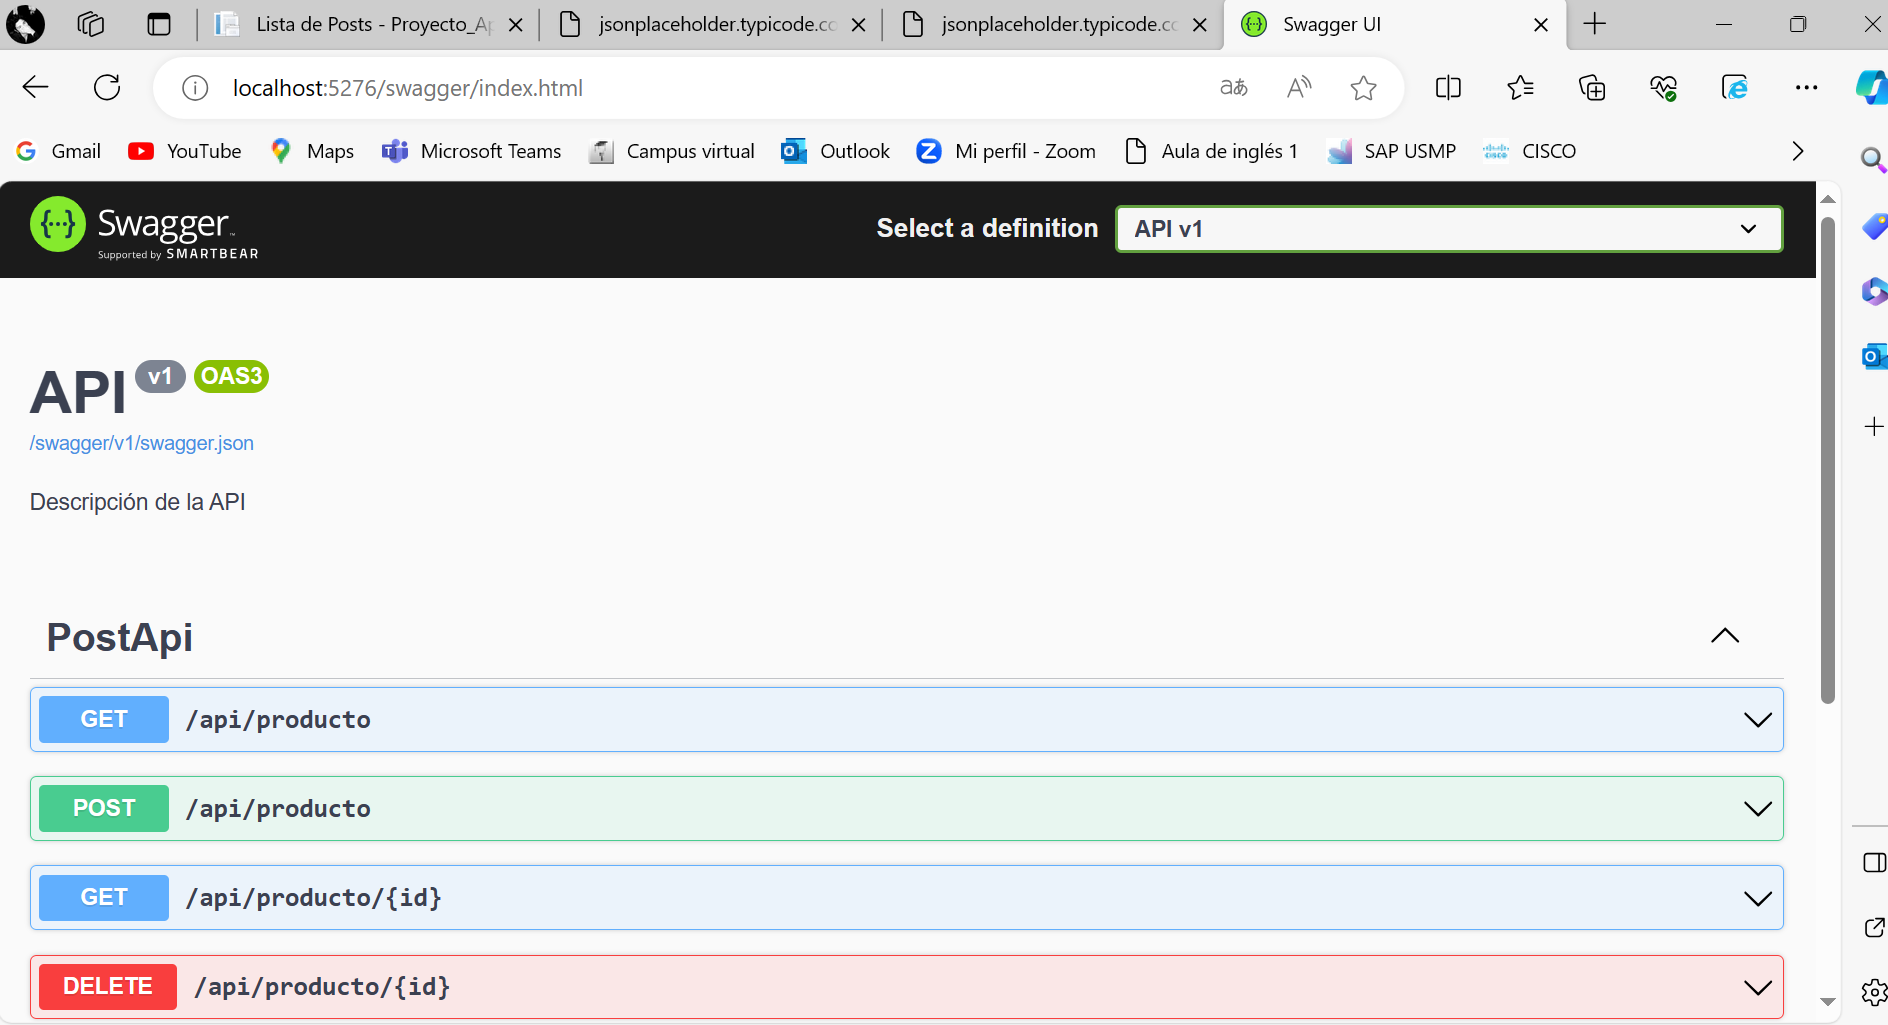
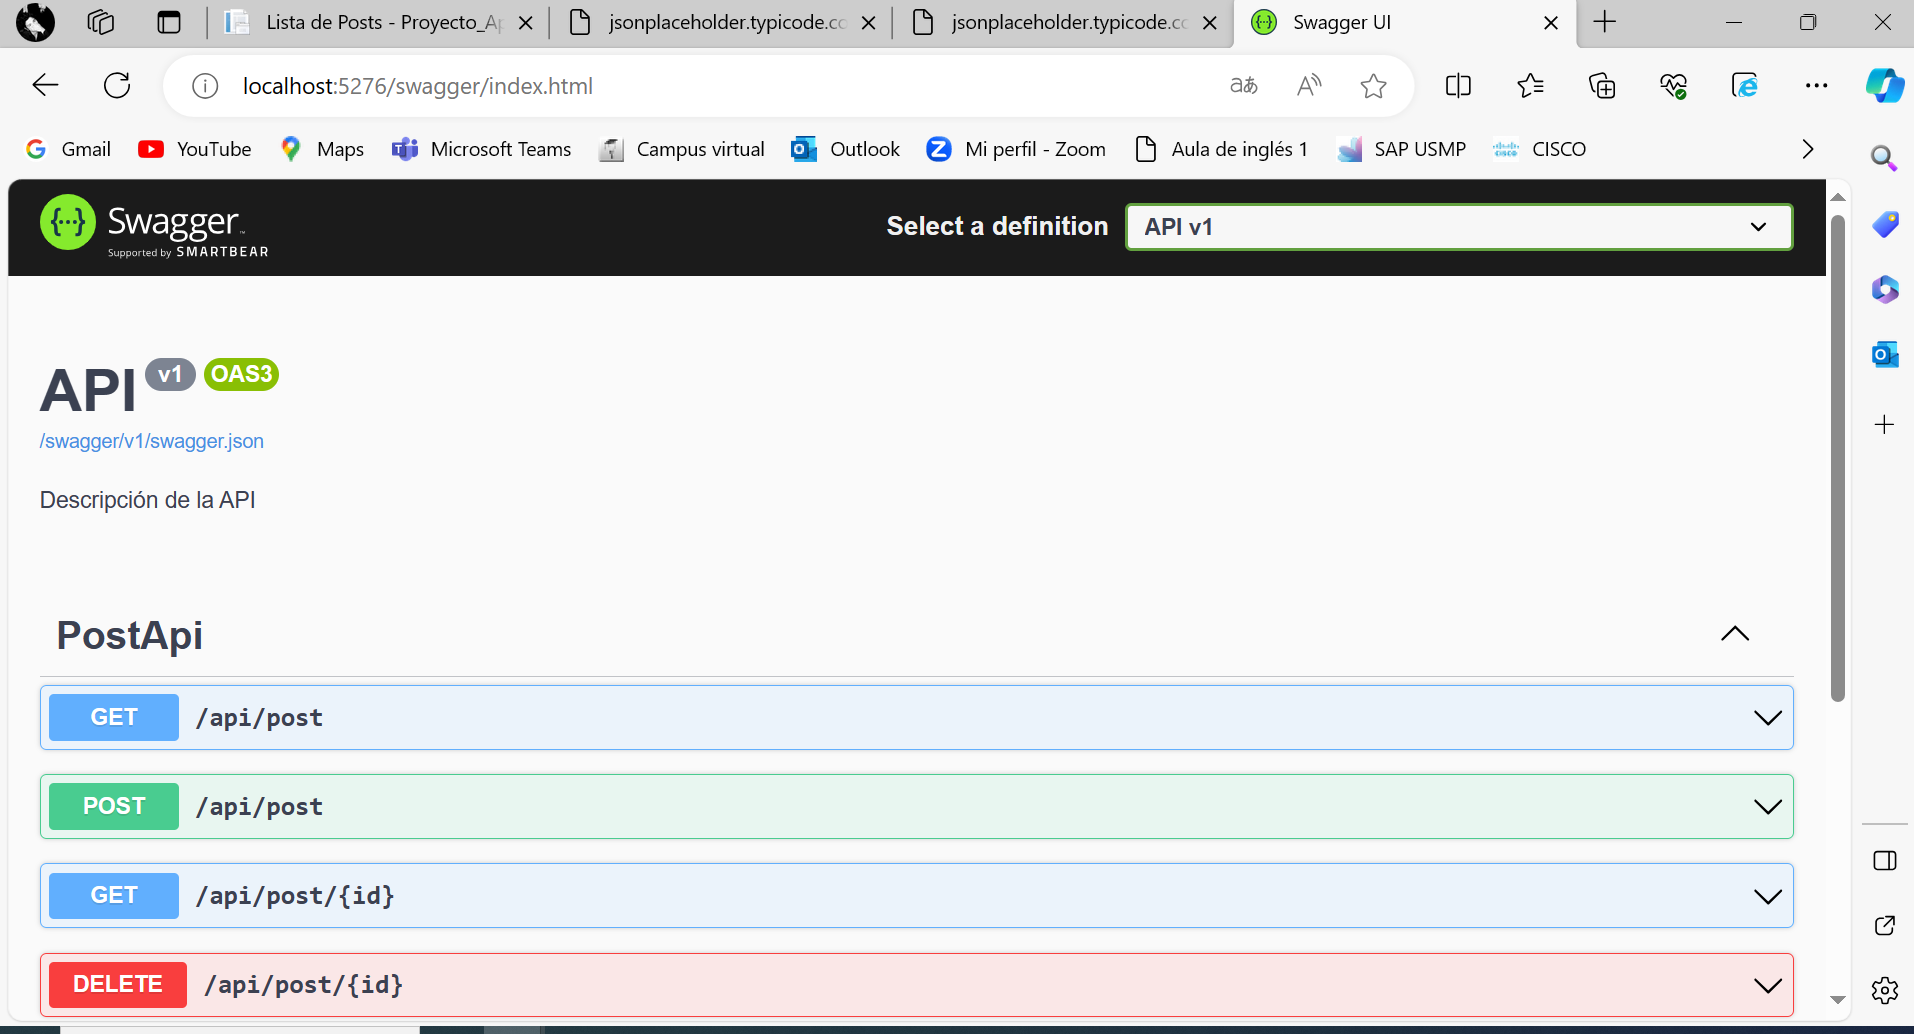
Imagenes en el readme xd

diff --git a/Controllers/Rest/PostApiController.cs b/Controllers/Rest/PostApiController.cs
@@ -16,7 +16,7 @@ using Proyecto_Api.Service;
 namespace Proyecto_Api.Controllers.Rest
 {
     [ApiController]
-    [Route("api/producto")]
+    [Route("api/post")]
     public class PostApiController : ControllerBase
     {
    
